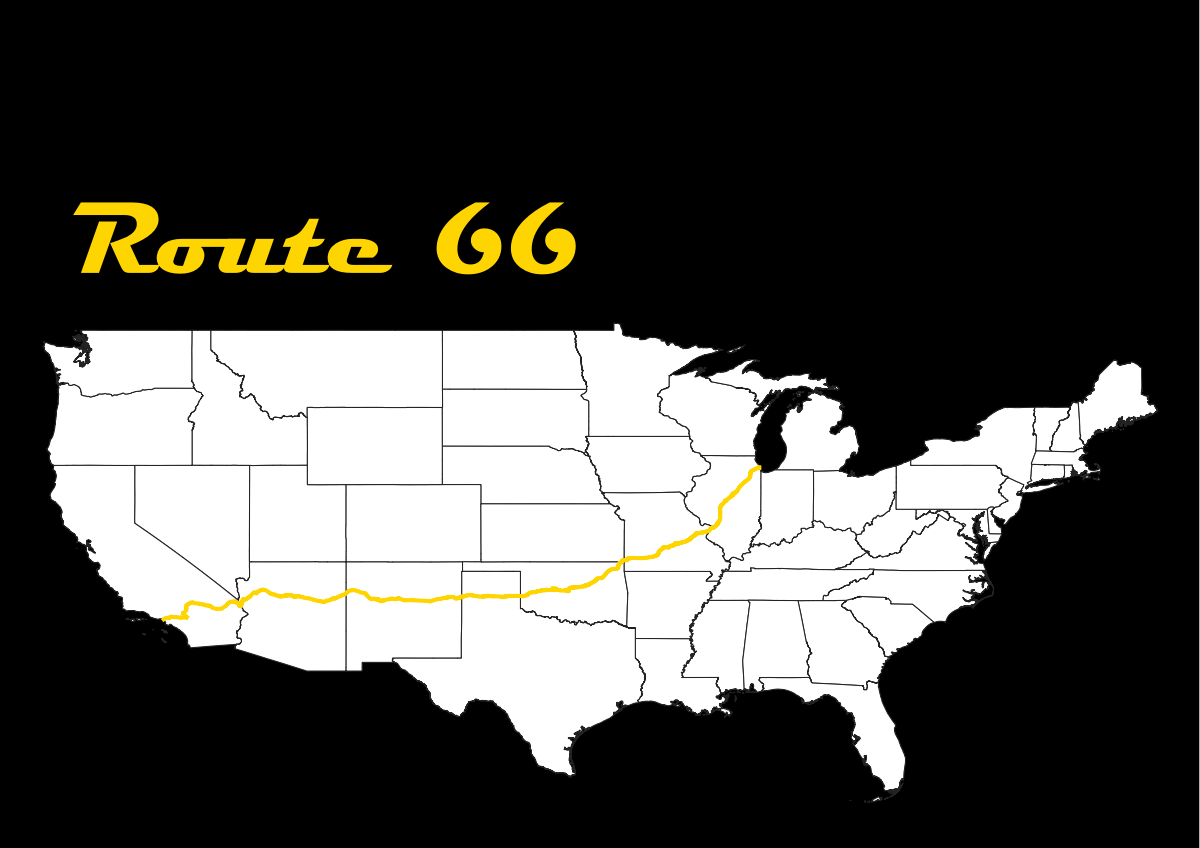
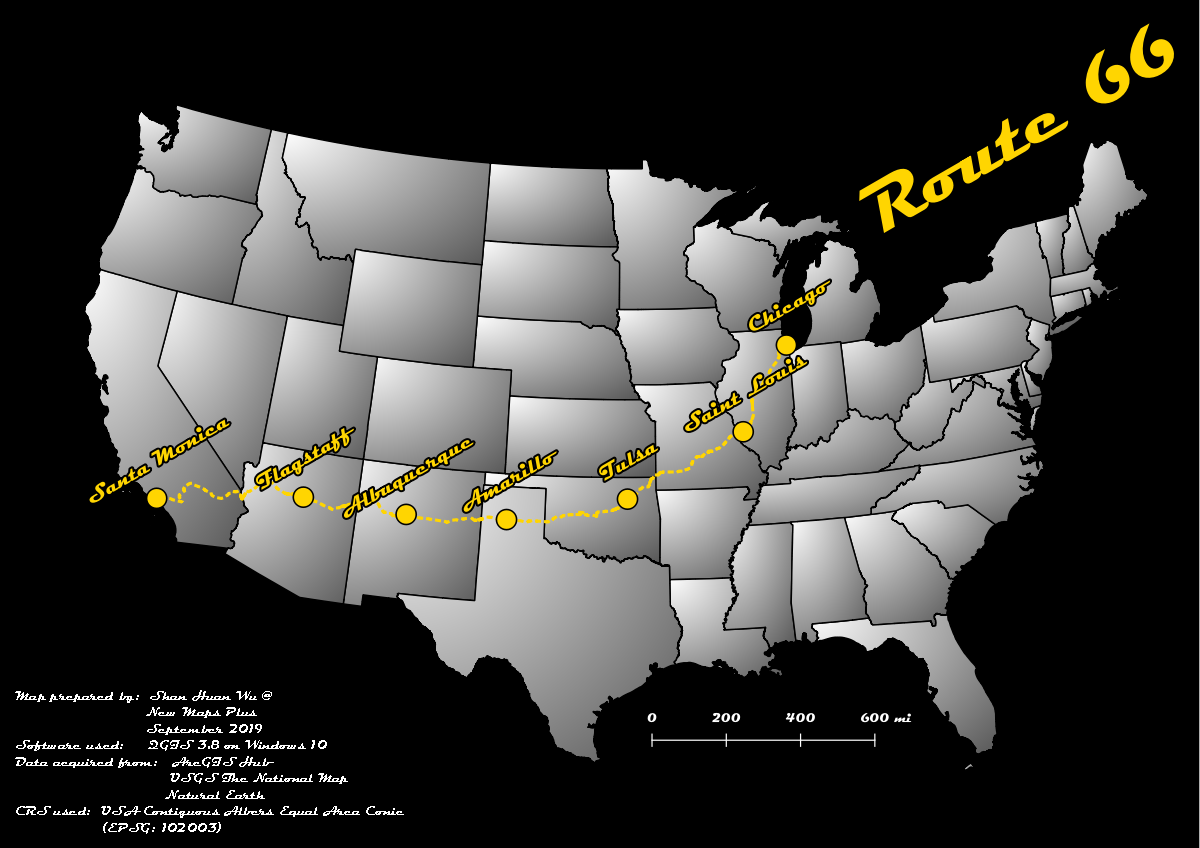
Updated map, images, and index.html

diff --git a/lesson-map/index.html b/lesson-map/index.html
@@ -13,7 +13,7 @@
     body {
       margin: 0;
       padding: 0;
-      background: #1b1b1b;
+      background: #000000;
       font-family: 'Open Sans', sans-serif;
       font-weight: 400;
       color: #ffffff;
@@ -36,7 +36,7 @@
     h2 {
       font-family: 'Open Sans', sans-serif;
       font-weight: 700;
-      color: gray;
+      color: #ffffff;
       font-size: 1.25em;
       letter-spacing: .04em;
     }
@@ -47,7 +47,7 @@
     }
 
     a {
-      color: #008cff;
+      color: #ffd501;
       text-decoration: none;
     }
 
@@ -131,11 +131,19 @@
     <div class="row">
         <p>From 11/11/1926 to its decomission on 06/26/1985, Route 66 served as the main road for many migrating west.
           Stretching from Chicago, Illinois to Santa Monica, California, people today can still traverse this Main Street of America.
+          Labeled are seven of the most relevant cities along its path.
         </p>
         <p>Data downloaded from <a href="https://hub.arcgis.com/datasets/adf920cfd4024cb8a90a99bef0d34443_0" target=blank">ArcGIS Hub</a> in September 2019,
           with country and state maps courtesy of <a href="https://www.naturalearthdata.com/" target=blank">Natural Earth</a>.
+          City data taken from <a href="https://nationalmap.gov/small_scale/atlasftp.html?openChapters=chpgeol%2Cchptrans%2Cchpbound%2Cchpref%2Cchpwater" target=blank">The National Map</a>.
         </p>
     </div>
+
+    <img class="max-image-width" src=graphics/Midpoint_Cafe.jpg>
+    <p>One of the most famous landmarks along Route 66, the Midpoint Cafe, about 47 miles west of Amarillo, TX.
+      Its location lies exactly in between the two ends, 1139 miles each way.
+      Photo and information via <a href="https://en.wikipedia.org/wiki/Midpoint_Caf%C3%A9" target=blank">Wikipedia</a>.
+    </p>
 
     <hr>
     <ul>
